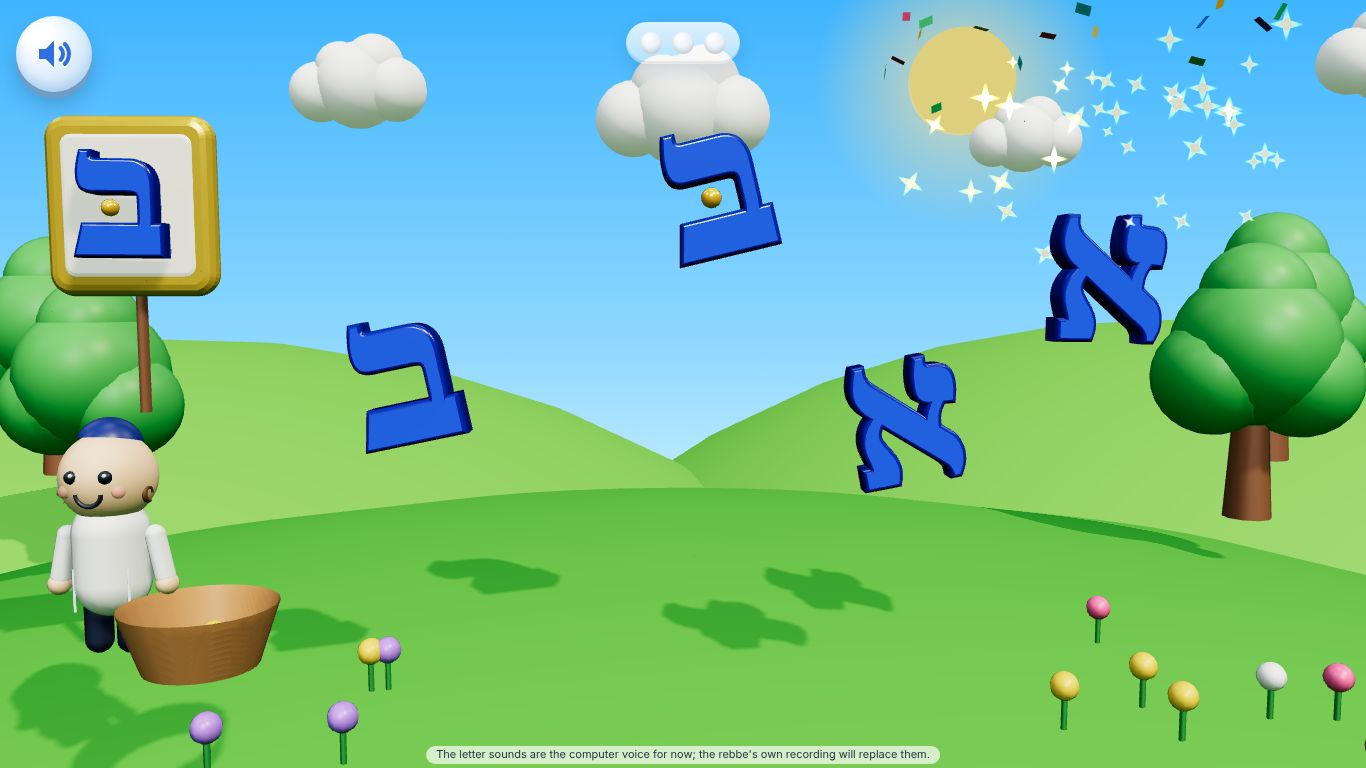
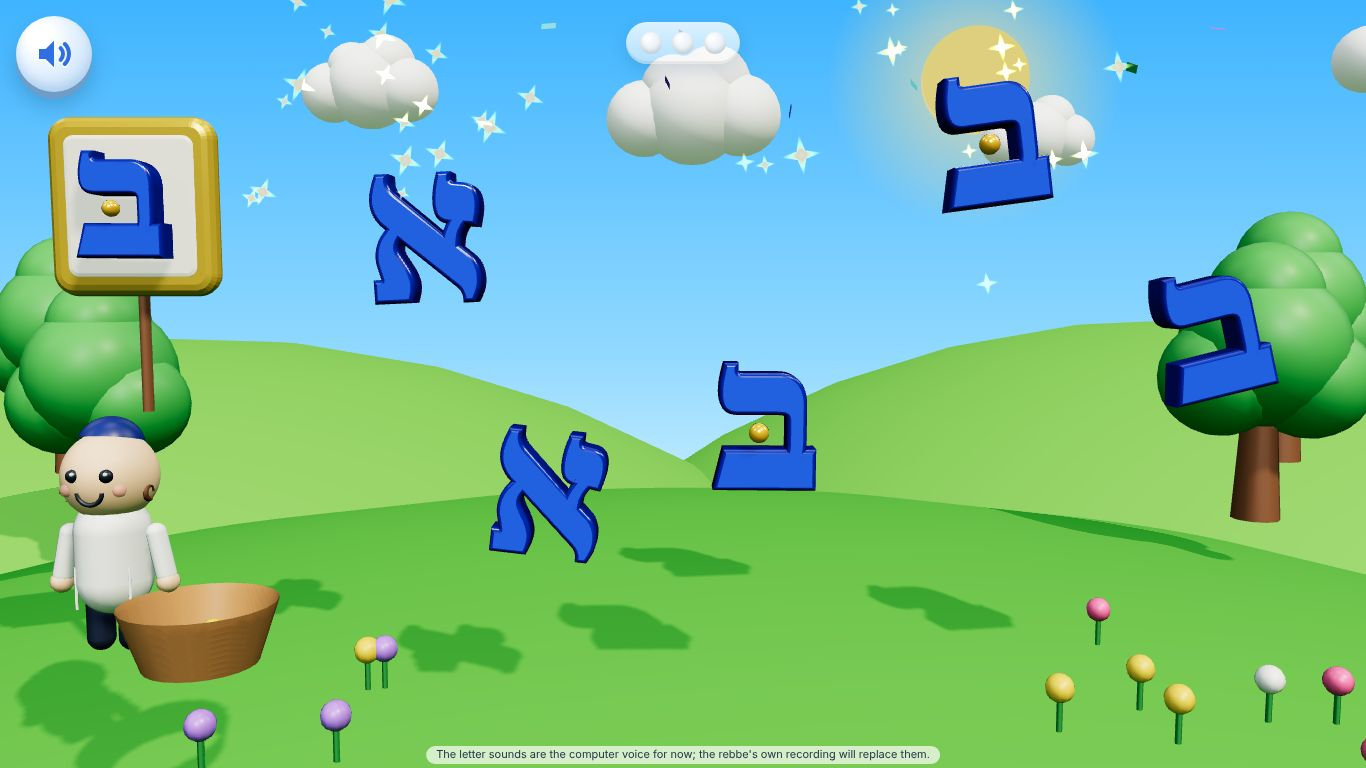
2.0 K Kriyah Unit 1: reviewer's last two fixes (dot tap area, bonus letters clear of the sign); morning report
Claude-Session: https://claude.ai/code/session_01GJ5WbAKvittV1mBmGBdYXY

diff --git a/v2/app/k-kriyah/games/feel.js b/v2/app/k-kriyah/games/feel.js
@@ -86,7 +86,7 @@ export default function setup(E) {
     const iv = setInterval(() => { if (!active || down || performance.now() - lastUp < 2500 * E.F) return; const n = beads.filter(x => x.userData.lit).length; if (n > said && n < beads.length) { said = n; E.say('More road to feel! Find the orange ring.'); const [x, y] = beadScreen(next); E.hand.at(x, y, true); setTimeout(() => E.hand.hide(), 1400 * E.F); } }, 400);
     await fin; clearInterval(iv); active = false; delete document.body.dataset.feelReady;
     if (key === 'beis') {   /* Beis: he touches Mendy's dot too, so the dagesh is something he feels */
-      const dot = cur.userData.dot; const pad = new THREE.Mesh(new THREE.SphereGeometry(2.6, 12, 8), new THREE.MeshBasicMaterial({ transparent: true, opacity: 0, depthWrite: false })); dot.add(pad);   /* a tap area much bigger than the dot */
+      const dot = cur.userData.dot; const pad = new THREE.Mesh(new THREE.SphereGeometry(.55, 12, 8), new THREE.MeshBasicMaterial({ transparent: true, opacity: 0, depthWrite: false })); dot.add(pad);   /* a tap area much bigger than the dot */
       const ring = E.noticeRing(.35); ring.position.copy(dot.position); ring.visible = true; cur.add(ring);
       await E.say('Now tap Mendy\u2019s dot!'); dotTarget = dot; document.body.dataset.dotReady = 1;
       await E.waitTap([dot]); delete document.body.dataset.dotReady; dotTarget = null; ring.visible = false; cur.remove(ring); E.sfx.chime(); E.sparkle(E.worldPos(dot), 22, 1); E.hop(dot, .25, 400);

diff --git a/v2/app/k-kriyah/games/bonus.js b/v2/app/k-kriyah/games/bonus.js
@@ -23,7 +23,7 @@ export default function setup(E) {
   function setSign(k) { if (signL) sign.remove(signL); signL = E.letter(k, .9); signL.position.set(0, 0, .25); sign.add(signL); E.popIn(signL); }
   const FALL_F = E.FAST ? 2.5 : 1;    /* quick test runs draw very few frames a second, so letters fall slower there to stay tappable */
   function drop(k, ms) {
-    const l = E.letter(k, 1.0); let x; do { x = E.portrait ? (Math.random() * 2 - 1) * 1.05 + .5 : (Math.random() * 2 - 1) * X * .85 + .6;   /* never over the sign */ } while (falling.some(f => !f.userData.busy && f.position.y > 2.5 && Math.abs(f.userData.x - x) < (E.portrait ? 1.1 : 1.6)) && Math.random() > .02);
+    const l = E.letter(k, 1.0); let x; do { x = E.portrait ? (Math.random() * 2 - 1) * .95 + .6 : (Math.random() * 2 - 1) * X * .85 + .6;   /* never over the sign */ } while (falling.some(f => !f.userData.busy && f.position.y > 2.5 && Math.abs(f.userData.x - x) < (E.portrait ? 1.1 : 1.6)) && Math.random() > .02);
     l.userData = Object.assign(l.userData, { t0: performance.now(), ms: ms * FALL_F, y0: E.portrait ? 5.7 : 4.0, y1: .5, x }); l.position.set(x, l.userData.y0, .8); E.scene.add(l); falling.push(l); E.popIn(l, 1, 250);   /* appears inside the sky, below the top buttons */
     if (k === want) targets++;
   }

diff --git a/v2/curriculum/k-kriyah/MORNING-REPORT.md b/v2/curriculum/k-kriyah/MORNING-REPORT.md
@@ -1,0 +1,63 @@
+# Morning report: Kindergarten Kriyah, Unit 1 (for Esti, 9:30)
+
+## 1. Where to look, and where to tap
+- **The pull request:** https://github.com/tashbar-baltimore/tashbar-app/pull/258
+- **The look link** appears there by itself as a comment ("2.0 look link") once the tests pass.
+  1. Open it and go to **`/k-kriyah/`** at the end of the link. That's Unit 1's path: seven stepping stones.
+  2. **Tap the glowing pink stone** (with the little house) to start Mendy's story.
+  3. Each game ends with stars, then a big green arrow to the next game.
+  4. The house button, top right, goes back to the path. The speaker button, top left, says the last line again.
+- **Turn the sound on.** Everything is spoken; nothing needs reading.
+- On the look link, a new stone opens only after 2 stars on the one before it, just as for a boy.
+
+## 2. What's broken or not finished (first, honestly)
+- **The letter sounds are the computer voice for now.**
+  - It says "buh" for Beis and "vuh" for Veis, because a computer can't say a lone "b". That is close to the letter-with-a-vowel sound you ruled out.
+  - It's marked on screen as temporary, and the rebbe's recording replaces it with no code change. **Please decide:** keep "buh"/"vuh" until then, or say no sound at all until his recording arrives.
+- **The rebbe's recording did not reach me.** His reply goes to your Gmail. This session can only read 2.0d@tashbarbaltimore.org, where nothing has arrived (not even the onboarding email). When it comes, forward it to 2.0d, or follow `v2/app/k-kriyah/audio/README.md`.
+- **The chant at the end of the story is a simple spoken rhythm with a drum** ("Alef, quiet! Beis, b! Veis, v!"). It isn't a real nigun; that needs you to choose a tune.
+- **A boy who keeps getting 1 star can keep replaying** (each time with an easier start), and no teacher is told. One line to decide: after 3 tries, open the next game anyway, or flag it for the teacher?
+- **On a computer that can't show 3D,** a boy gets a clean flat screen with the three letters to tap and hear, not full flat versions of the games.
+- **I played everything in a test browser.** The 3D was slow there (software drawing), so I could only judge smoothness from the pictures. Please try it on a real school Chromebook.
+
+## 3. What's finished: what the boy sees and hears
+1. **Mendy's first day** (the opener):
+   - Tatty walks Mendy to cheder, and the rebbe shows him Alef ("Abba starts with Alef. Alef is quiet.").
+   - The house turns into Beis, and Mendy becomes the dot. Mendy goes out to play: no dot, Veis.
+   - A short chant, then he taps each letter.
+2. **Look-Alike Detective:** he drags each letter to its house. Beis goes to the house where Mendy is home (the dot); Veis goes to the empty house.
+3. **Feel the Shape:** he runs his finger along a glowing road on each big letter (touch only, not writing). On Beis he taps Mendy's dot.
+4. **Letter Hunt:** he finds every Beis, then every Veis, hidden around the sukkah.
+5. **Find the Mistake:** "Yaakov says this is a Beis. Is he right?" He taps ✓ or ✗, then fixes Yaakov's sign.
+6. **Show what you know:** 9 "hear it, tap it" questions. This is the unit's check, and 2 stars passes.
+7. **Bonus, letter rain:** for quick boys (opens at 3 stars on the check). He catches the falling letters.
+
+Every game:
+- starts with "Watch me… now you!";
+- answers a mistake kindly, says why, and lets him try again;
+- quietly gets easier when he struggles.
+
+**Checked:**
+- All tests pass, including every Kriyah game at Chromebook and phone size.
+- I looked at every picture at both sizes; they are in the pull request.
+- An independent reviewer scored every game 4 or 5 on all 9 points; the table is in the pull request.
+
+## 4. Decisions I made on my own (yes, or change it)
+They are in `v2/curriculum/k-kriyah/UNIT1-NOTES.md`, "Decisions I made on my own", one line each. The main ones:
+1. The bonus round opens only at 3 stars on the mastery check.
+2. Feel the Shape uses a glowing road, not dots (dots could look like the dagesh). He can start anywhere, so it isn't writing.
+3. Nothing gold or round sits near a letter in Letter Hunt; each letter is on a plain tile.
+4. Letter Hunt is in a sukkah, because Unit 1 is in Tishrei.
+5. Star cut-offs for each game (listed in the notes). Always tapping one button can't pass Find the Mistake.
+6. On a phone, the mastery check doesn't show the rebbe (no room).
+
+## 5. The rebbe's recording
+It did not arrive here (see section 2). The games already play his recording the moment it's added, and use the computer voice until then. I did not write to him.
+
+## 6. Shared changes needed (I didn't make them)
+- The shared sign-in and path (tashbar-baltimore/tashbar-app#248) should open `k-kriyah/index.html` for a Kindergarten boy and save the stars each game sends.
+- The 3D kit (`engine.js`) and `ART-DIRECTION.md` could move into the shared art kit.
+- `v2/FEATURES.md` should list "Kindergarten Kriyah, Unit 1" once it's approved.
+
+## 7. What's next
+Unit 2: Gimmel, Daled, Hei (ג ד ה). It uses the same game kinds, plus the first review round of Alef, Beis and Veis.
